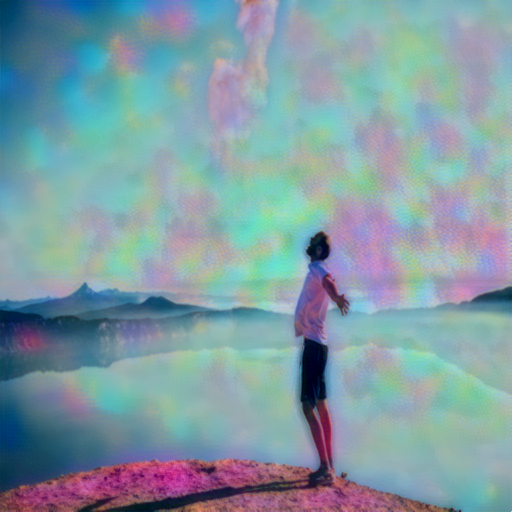
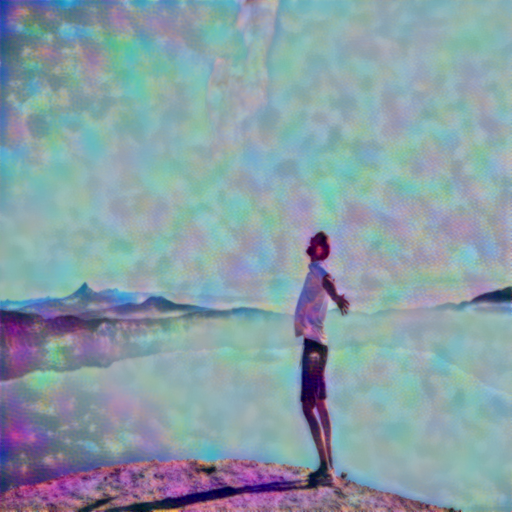
Add runner script to pull from directories

diff --git a/style_transferer.py b/style_transferer.py
@@ -34,16 +34,18 @@ def main():
   parser = argparse.ArgumentParser()
   parser.add_argument('--content_image' , '-ci' , type=str                  , help="Path to content image"  )
   parser.add_argument('--style_image'   , '-si' , type=str                  , help="Path to style image"    )
+  parser.add_argument('--img_out'       , '-io' , type=str,   default="image_out/out", help="Path to output image")
   parser.add_argument('--iterations'    , '-itr', type=int,   default=10    , help="Num iterations to train")
   parser.add_argument('--content_weight', '-cw' , type=float, default=0.025 , help="Num iterations to train")
   parser.add_argument('--style_weight'  , '-sw' , type=float, default=5.0   , help="Num iterations to train")
   parser.add_argument('--var_weight'    , '-vw' , type=float, default=1.0   , help="Num iterations to train")
   args = parser.parse_args()
   validate_args(args)
-
+  print("\n----- Running Style Transfer -----")
   # Get the images
   raw_content_image   = get_image(args.content_image, width, height)
   raw_style_image     = get_image(args.style_image, width, height)
+  print("\tAcquired content and style images")
   # save_image(raw_style_image, "tst_style")
 
   # Convert the images to 4D arrays for the CNN to use
@@ -60,7 +62,7 @@ def main():
   combo_img           = torch.empty_like(c_img)           # Combined Image Tensor
   combo_img.requires_grad_()
   loss                = torch.zeros(1)                    # Loss Tensor
-
+  print("\tCreated tensors")
   # Input tensor:
   # - Matrix of content image, style image, and combo image along the batch axis (0).
   # - Represents a batch of three images that will be passed thru the VGG16 CNN
@@ -93,9 +95,11 @@ def main():
   # Register the hook for each relevant layer
   for layer_name, idx in layers.items():
     vgg16.features[idx].register_forward_hook(get_activation(layer_name))
+  print("\tRegistered Model Hooks")
 
   # Send in the input tensor
   vgg16(in_tensor) # ; print("block2_conv2 activation shape:", layer_outputs['block5_conv3'].shape)
+  print("\tTensor fed to model")
 
   # WEIGHTS # TODO: TUNE ME
   c_weight                = args.content_weight
@@ -118,6 +122,7 @@ def main():
   
   # VARIATION LOSS #
   loss += total_variation_weight * total_variation_loss(combo_img)
+  print("\tLoss Calculated")
 
   # GRADIENT #
   grads     = torch.autograd.grad(loss, combo_img)[0]
@@ -188,15 +193,15 @@ def main():
   x = np.random.uniform(0, 255, (1, 3, height, width)) - 128
 
   for i in range(args.iterations):
-    print('Start of iteration', i)
+    print('\t\tStart of iteration', i)
     start_time = time.time()
     x, min_val, info = fmin_l_bfgs_b(evaluator.loss, x.flatten(), fprime=evaluator.grads, maxfun=20)
-    print('Current loss value:', min_val)
+    print('\t\t\tCurrent loss value:', min_val)
     end_time = time.time()
-    print('Iteration %d completed in %ds' % (i, end_time - start_time))
+    print('\t\t\tIteration %d completed in %ds' % (i, end_time - start_time))
 
   output_img = inverse_image_transform(x, tc_rgb)
-  save_image(output_img, "styled")
+  save_image(output_img, args.img_out)
 
 def total_variation_loss(x):
   '''
@@ -261,7 +266,7 @@ def save_image(image, filename, filetype="PNG"):
   @returns: nothing
   '''
 
-  out_dir = f"./image_out/{filename}.{filetype.lower()}"
+  out_dir = f"{filename}.{filetype.lower()}"
   image.save(out_dir)
   print(f"Image saved to: {out_dir}")
 
@@ -362,7 +367,6 @@ def validate_args(args):
   else:
     print("Path to style image not provided. Exiting.")
     sys.exit(1)
-
 
 if __name__ == "__main__":
   main()

diff --git a/run_style_transfer.py b/run_style_transfer.py
@@ -1,0 +1,58 @@
+'''
+Simple wrapper script to run the style transferer script on a directory of images.
+Usage: 
+  run_style_transferer.py --content_src = <path to content directory> --style_src = <path to style directory>
+
+IMPORTANT: must be exactly as many images in content_src as image_src
+'''
+
+import argparse
+import subprocess as sp
+import sys
+import os
+
+from click import style
+
+def main():
+  ''' Run style transferer '''
+
+  parser = argparse.ArgumentParser()
+  parser.add_argument('--content_src', '-cs', type=str, default="image_src/content",help="directory of content images")
+  parser.add_argument('--style_src'  , '-ss', type=str, default="image_src/style",help="directory of style images")
+  args = parser.parse_args()
+
+  # Verify inputs are good
+  if not os.path.exists(args.content_src):
+    print("Path to content imagess is invalid. Exiting.")
+    sys.exit(1)
+
+  if not os.path.exists(args.style_src):
+    print("Path to style images is invalid. Exiting.")
+    sys.exit(1)
+
+  out_dir       = "image_out"
+  content_paths = []
+  style_paths   = []
+
+  for file in os.listdir(args.content_src):
+    content_paths.append(os.path.join(args.content_src, file))
+
+  for file in os.listdir(args.style_src):
+    style_paths.append(os.path.join(args.style_src, file))
+
+  for idx, content_path in enumerate(content_paths):
+    c_name = os.path.splitext(os.path.basename(content_path))[0]
+    s_name = os.path.splitext(os.path.basename(style_paths[idx]))[0]
+    
+    out_name = f"image_out/{c_name}_+_{s_name}"
+    sp_args = ['python3', './style_transferer.py', '-ci', content_path, '-si', style_paths[idx], '-io', out_name, '-itr', str(2)]
+    # sp.run(sp_args, stdout=sp.PIPE, universal_newlines=True, shell=False)
+    command = ' '.join(sp_args)  # Ensure sp_args is a space-separated string
+    os.system(command)
+  print(f"Style Paths: {style_paths}")
+  print(f"Content Paths: {content_paths}")
+
+
+
+if __name__ == "__main__":
+  main()
